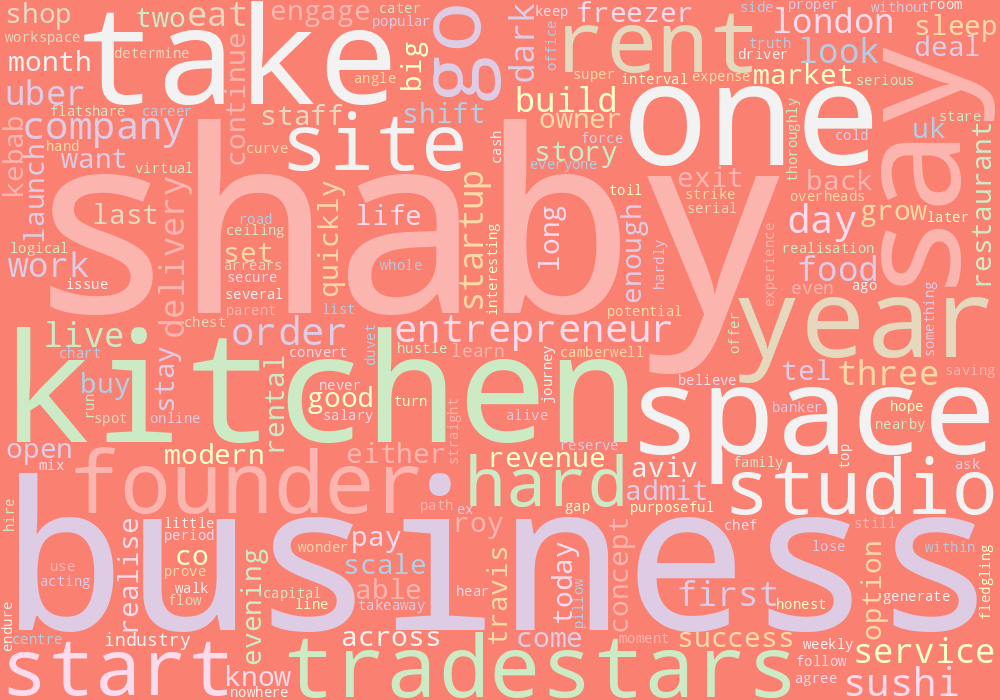
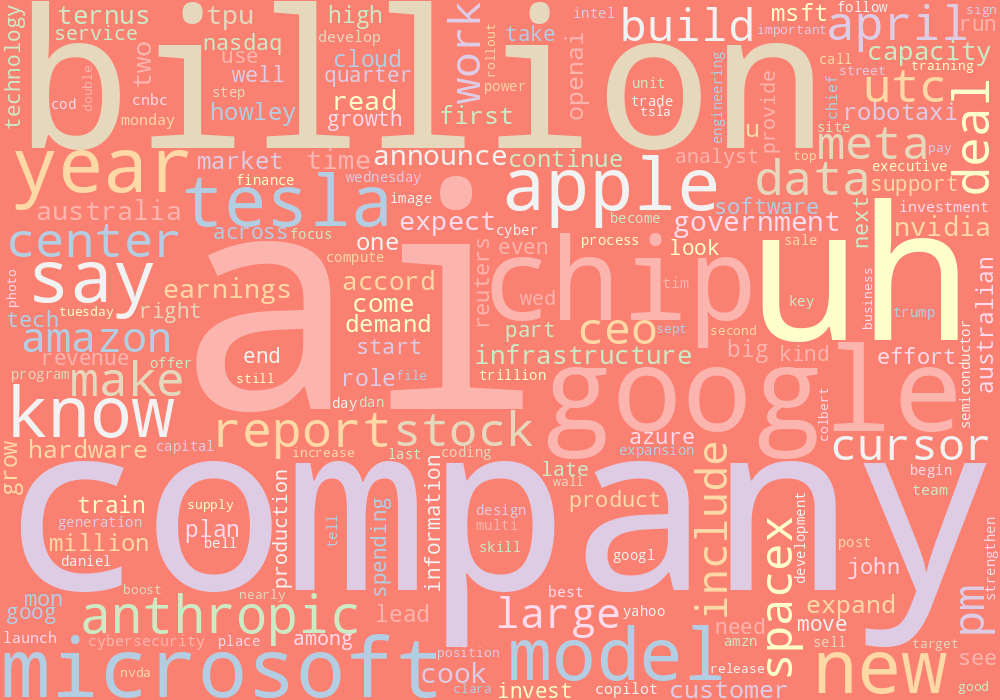
Integrated text analyzer into stock analysis

diff --git a/analyze.py b/analyze.py
@@ -114,51 +114,53 @@ def cleanseWordList(posTaggedWordTuples):
             cleanseWords.append(wordLemmatizer.lemmatize(cleanseWord, treebankPosToWordnetPos(pos)))
     return cleanseWords
 
-# Get User Details
-welcomeUser()
-username = getUsername()
-greetUser(username)
 
-# Extract and Tokenize Text
-articleTextRaw = getArticleText()
-articleSentences = tokenizeSentences(articleTextRaw)
-articleWords = tokenizeWords(articleSentences)
+def analyzeText(textToAnalyze):
+    articleSentences = tokenizeSentences(textToAnalyze)
+    articleWords = tokenizeWords(articleSentences)
 
-# Get Sentence Analytics
-stockSearchPattern = "[0-9]|[%$€£]|thousand|billion|million|trillion|profit|loss"
-keySentences = extractKeySentences(articleSentences, stockSearchPattern)
-wordsPerSentence = getWordsPerSentence(articleSentences)
+    # Get Sentence Analytics
+    stockSearchPattern = "[0-9]|[%$€£]|thousand|billion|million|trillion|profit|loss"
+    keySentences = extractKeySentences(articleSentences, stockSearchPattern)
+    wordsPerSentence = getWordsPerSentence(articleSentences)
 
-# Get Word Analytics
-wordsPosTagged = nltk.pos_tag(articleWords)
-articleWordsCleansed = cleanseWordList(wordsPosTagged)
+    # Get Word Analytics
+    wordsPosTagged = nltk.pos_tag(articleWords)
+    articleWordsCleansed = cleanseWordList(wordsPosTagged)
 
-# Generate word cloud
-separator = " "
-wordCloudFilePath = "results/wordcloud.png"
-wordcloud = WordCloud(width = 1000, height = 700, random_state=1, \
- background_color= "salmon", colormap= "Pastel1", collocations=False).generate(separator.join(articleWordsCleansed))
-wordcloud.to_file(wordCloudFilePath)
+    # Generate word cloud
+    separator = " "
+    wordCloudFilePath = "results/wordcloud.png"
+    wordcloud = WordCloud(width = 1000, height = 700, random_state=1, \
+    background_color= "salmon", colormap= "Pastel1", collocations=False).generate(separator.join(articleWordsCleansed))
+    wordcloud.to_file(wordCloudFilePath)
 
-# Run Sentiment Analysis
-sentimentResult = sentimentAnalyzer.polarity_scores(articleTextRaw)
+    # Run Sentiment Analysis
+    sentimentResult = sentimentAnalyzer.polarity_scores(textToAnalyze)
 
-# Collate Analyses into one dictionary
-finalResult = {
-    "username": username,
-    "data": {
-        "keySentences": keySentences,
-        "wordsPerSentence": wordsPerSentence,
-        "sentiment": sentimentResult,
-        "wordCloudFilePath": wordCloudFilePath
-    },
-    "metadata": {
-        "snetencesAnalyzed": len(articleSentences),
-        "wordsAnalyzed": len(articleWordsCleansed)
+    # Collate Analyses into one dictionary
+    finalResult = {
+        "data": {
+            "keySentences": keySentences,
+            "wordsPerSentence": wordsPerSentence,
+            "sentiment": sentimentResult,
+            "wordCloudFilePath": wordCloudFilePath
+        },
+        "metadata": {
+            "snetencesAnalyzed": len(articleSentences),
+            "wordsAnalyzed": len(articleWordsCleansed)
+        }
     }
-}
 
-finalResultJson = json.dumps(finalResult, indent=4)
+    return finalResult
 
-# Print for testing
-print(finalResultJson)
+def runAsFile():
+    # Get User Details
+    welcomeUser()
+    username = getUsername()
+    greetUser(username)
+
+    # Extract and Tokenize Text
+    articleTextRaw = getArticleText()
+
+    analyzeText(articleTextRaw)

diff --git a/stockAnalyze.py b/stockAnalyze.py
@@ -1,7 +1,10 @@
+import json
 import yfinance as yf
 import requests
+import analyze
 from datetime import datetime
 from bs4 import BeautifulSoup
+
 
 
 def extractbasicInfo(data):
@@ -85,6 +88,11 @@ def getCompanyStockInfo(tickerSymbol):
     futureEarningsDates = getEarningsDates(company)
     newsArticles = getCompanyNews(company)
     newsArticlesAllText = extractCompamyNewsArticles(newsArticles)
-    print(newsArticlesAllText)
+    newsTextAnalysis = analyze.analyzeText(newsArticlesAllText)
+        
+    finalResultJson = json.dumps(newsTextAnalysis, indent=4)
+
+    # Print for testing
+    print(finalResultJson)
 
 getCompanyStockInfo("MSFT")
